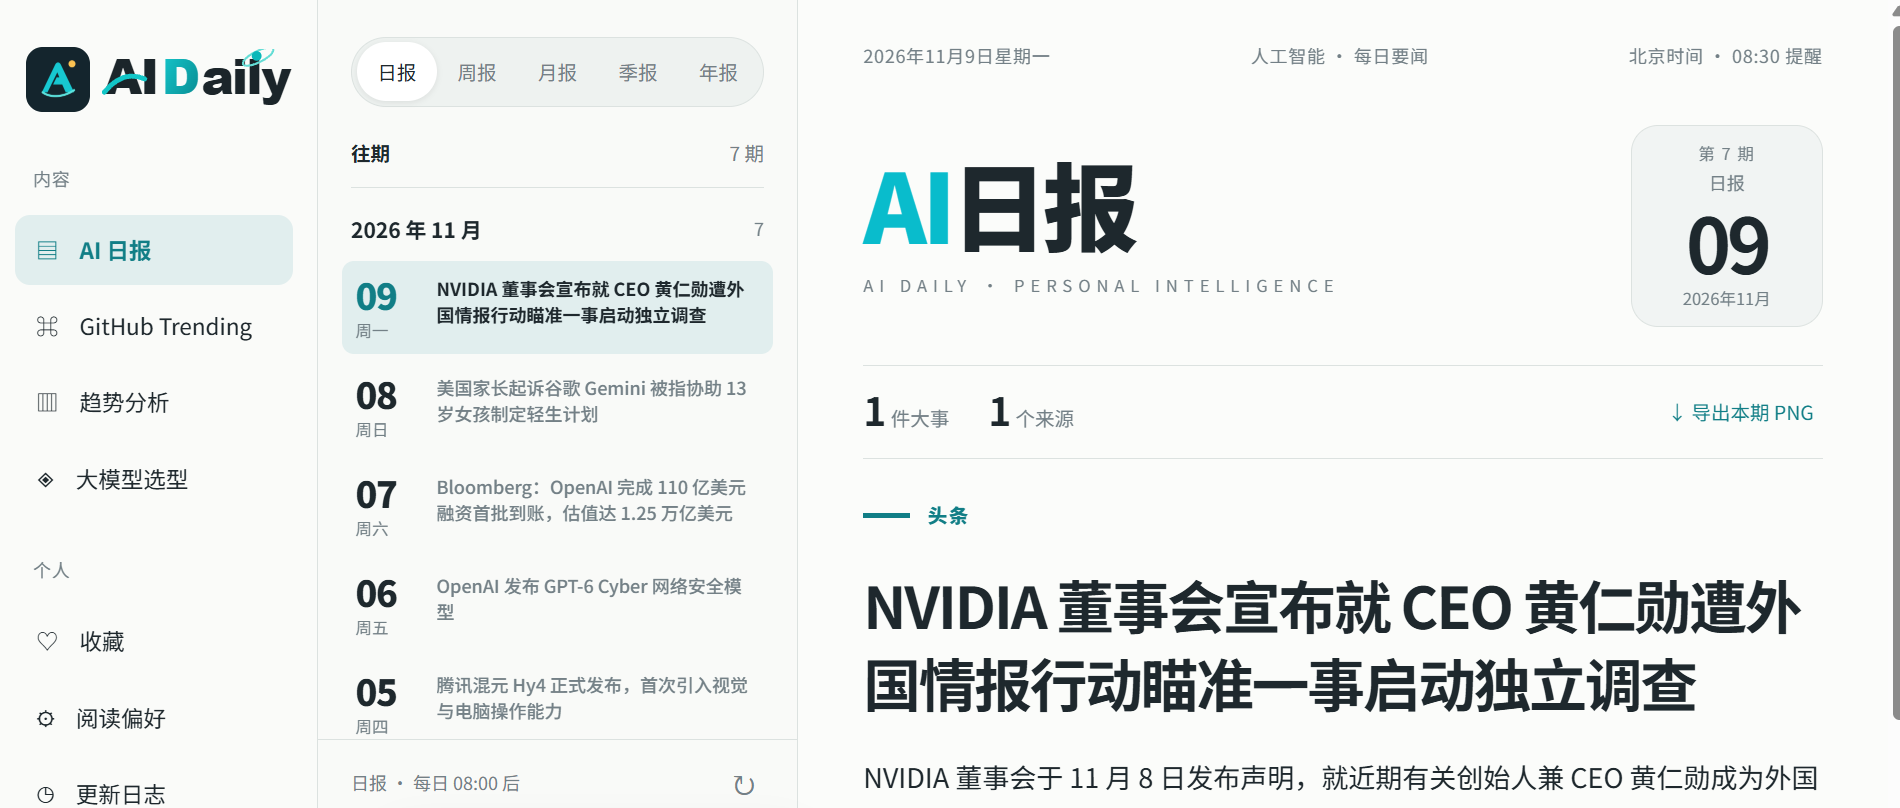
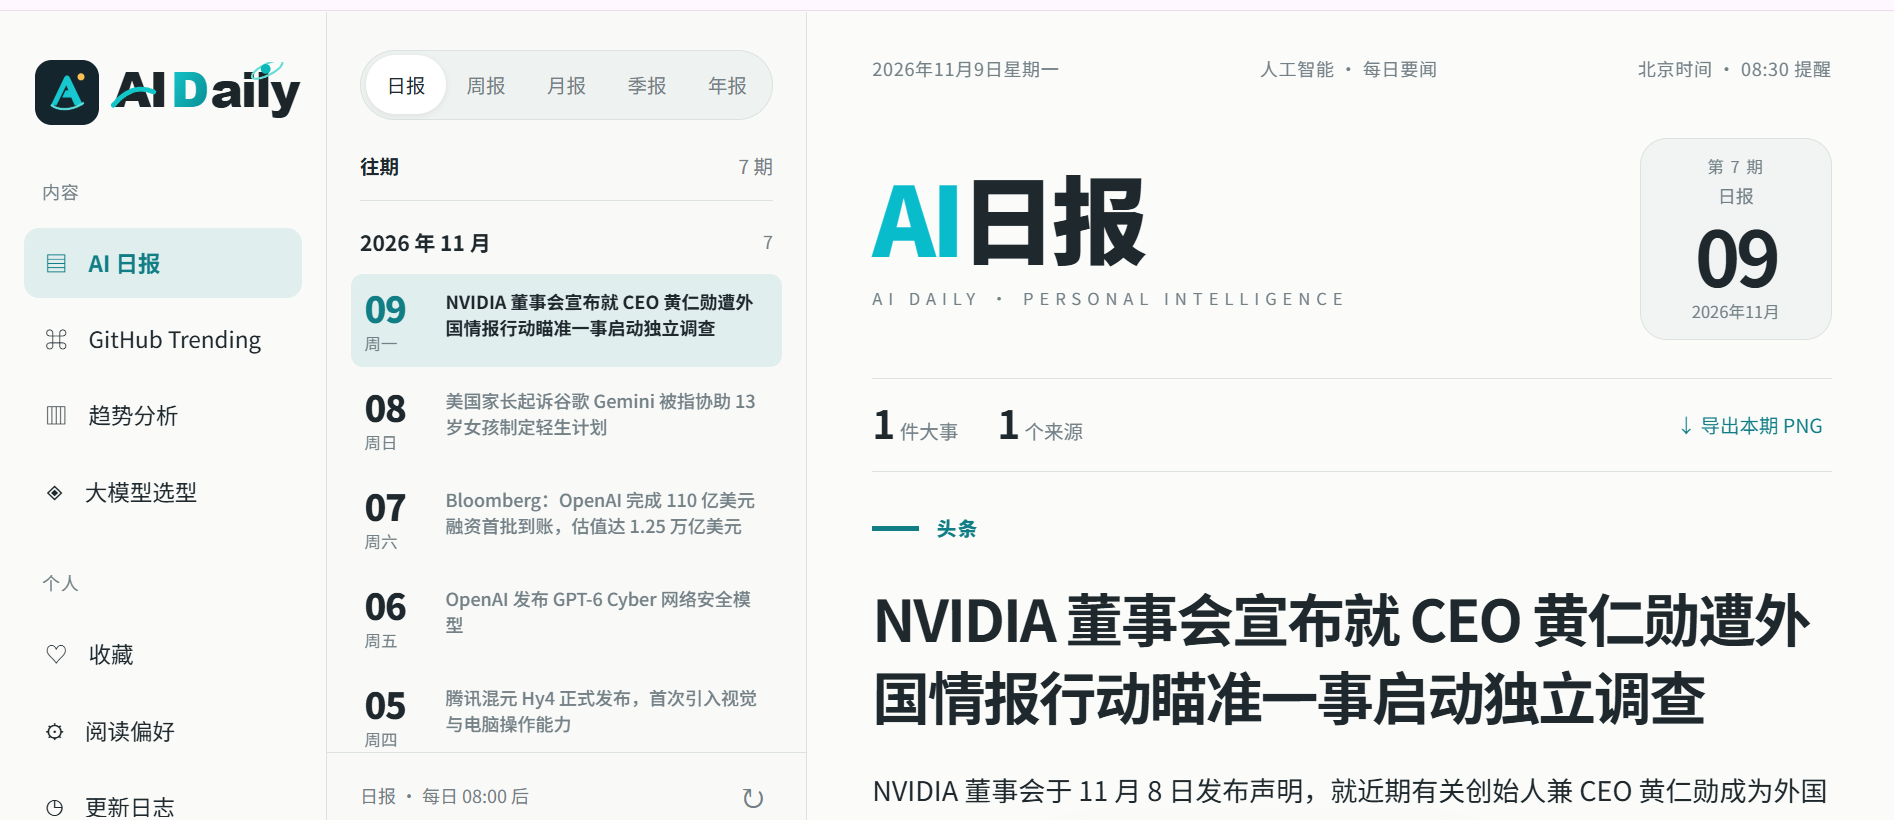
Add files via upload

diff --git a/aesthetic-v4.css b/aesthetic-v4.css
@@ -81,42 +81,53 @@ button:hover{transform:translateY(-1px)}
 }
 
 
-/* V4.1 · AI Daily introduction, scoped to avoid touching other pages. */
-.mw-daily-page{--d-teal:#07858c;--d-bright:#0ab5c0;--d-blue:#002fa7;--d-ink:var(--text);max-width:1400px;margin:auto}
-.mw-daily-eyebrow{display:flex;align-items:center;gap:10px;font-size:11px;font-weight:700;letter-spacing:.19em;color:var(--muted);margin-bottom:24px}
-.mw-live-dot{width:8px;height:8px;border-radius:50%;background:var(--d-bright);box-shadow:0 0 0 5px color-mix(in srgb,var(--d-bright) 12%,transparent)}
-.mw-daily-hero{display:grid;grid-template-columns:minmax(290px,.8fr) minmax(420px,1.2fr);gap:clamp(28px,4vw,70px);align-items:center;min-height:560px;padding:clamp(28px,3vw,50px);border:1px solid color-mix(in srgb,var(--d-teal) 16%,var(--line));border-radius:25px;background:radial-gradient(ellipse at 86% 10%,rgba(11,184,187,.09),transparent 45%),linear-gradient(125deg,var(--panel),color-mix(in srgb,var(--panel) 91%,#0fb4ad));overflow:hidden}
-.mw-daily-copy{min-width:0}
-.mw-daily-product{display:flex;align-items:center;gap:13px;font-size:23px;font-weight:800;letter-spacing:-.6px;color:var(--d-ink);margin-bottom:24px}
-.mw-daily-logo{display:grid;place-items:center;position:relative;width:49px;height:49px;flex-shrink:0;border-radius:15px;background:#14262b;color:#18bfc4;font-size:32px;font-weight:800;letter-spacing:-2px;line-height:1}
-.mw-daily-logo-dot{position:absolute;top:7px;right:8px;font-size:15px;color:#ffcf77}
-.mw-daily-copy h1{font-size:clamp(36px,3.4vw,60px);line-height:1.18;letter-spacing:-.055em;font-weight:800;color:var(--d-ink)}
-.mw-daily-period{color:var(--d-blue)}
-.mw-daily-lead{margin-top:20px;font-size:clamp(17px,1.4vw,22px);font-weight:700;line-height:1.5;color:var(--d-teal)}
-.mw-daily-summary{margin-top:15px;max-width:520px;font-size:15px;line-height:1.95;color:var(--muted)}
-.mw-daily-actions{display:flex;flex-wrap:wrap;align-items:center;gap:12px;margin-top:29px}
-.mw-daily-cta{display:inline-flex;align-items:center;justify-content:space-between;gap:36px;padding:13px 21px;border-radius:13px;background:linear-gradient(120deg,#11b8bc,#087d87);color:white!important;font-weight:750;box-shadow:0 11px 25px rgba(8,125,135,.15);transition:transform .23s ease,box-shadow .23s ease}
-.mw-daily-cta:hover{transform:translateY(-3px);box-shadow:0 17px 32px rgba(8,125,135,.24)}
-.mw-daily-cta span{font-size:19px;font-weight:500}
-.mw-daily-secondary{padding:11px 13px;color:var(--muted);font-size:14px;border-radius:10px;transition:background .2s ease,color .2s ease}
-.mw-daily-secondary:hover{color:var(--d-teal);background:var(--soft)}
-.mw-daily-linkhint{font-size:12px;margin-top:13px;color:var(--muted)}
-.mw-daily-showcase{min-width:0;border:1px solid color-mix(in srgb,var(--d-teal) 25%,var(--line));border-radius:18px;overflow:hidden;background:var(--panel);box-shadow:0 18px 48px rgba(9,87,88,.10);transform:perspective(1200px) rotateY(-2deg);transition:transform .35s cubic-bezier(.2,.8,.2,1),box-shadow .35s ease}
-.mw-daily-showcase:hover{transform:perspective(1200px) rotateY(0) translateY(-4px);box-shadow:0 24px 53px rgba(9,87,88,.17)}
-.mw-daily-image-header{height:41px;display:flex;align-items:center;justify-content:space-between;gap:12px;padding:0 16px;font-size:11px;color:var(--muted);background:color-mix(in srgb,var(--panel) 90%,var(--soft));border-bottom:1px solid var(--line)}
-.mw-daily-dots{display:flex;gap:6px}.mw-daily-dots i{width:8px;height:8px;border-radius:50%;background:#f3a49e}.mw-daily-dots i:nth-child(2){background:#e9c875}.mw-daily-dots i:nth-child(3){background:#85cbb6}
-.mw-daily-image{display:block;overflow:hidden;aspect-ratio:1900/808;background:#f8faf9}
-.mw-daily-image img{display:block;width:100%;height:100%;object-fit:contain;object-position:top left}
-.mw-daily-image-caption{padding:11px 15px;font-size:11px;color:var(--muted);background:var(--panel)}
-.mw-daily-features-title{display:flex;align-items:baseline;justify-content:space-between;gap:12px;margin:33px 0 17px}
-.mw-daily-features-title h2{font-size:21px;font-weight:730}.mw-daily-features-title span{font-size:10px;letter-spacing:.16em;color:var(--muted)}
-.mw-daily-features{display:grid;grid-template-columns:repeat(4,minmax(0,1fr));gap:12px}
-.mw-daily-features article{background:var(--panel);border:1px solid var(--line);border-radius:16px;padding:19px 18px;transition:transform .22s ease,border-color .22s ease,box-shadow .22s ease}
-.mw-daily-features article:hover{transform:translateY(-3px);border-color:color-mix(in srgb,var(--d-teal) 40%,var(--line));box-shadow:0 12px 30px rgba(9,87,88,.06)}
-.mw-daily-feature-index{font-size:12px;color:var(--d-teal);font-weight:700;letter-spacing:.1em}
-.mw-daily-features h3{font-size:16px;margin:10px 0 7px}
-.mw-daily-features p{font-size:13px;line-height:1.75}
-.mw-daily-footerline{margin-top:24px;padding-top:17px;border-top:1px solid var(--line);display:flex;justify-content:space-between;align-items:center;gap:15px;font-size:12px;color:var(--muted)}
-@media(max-width:1200px){.mw-daily-hero{grid-template-columns:1fr;min-height:0}.mw-daily-showcase{transform:none}.mw-daily-features{grid-template-columns:repeat(2,minmax(0,1fr))}}
-@media(max-width:650px){.mw-daily-eyebrow{margin-bottom:15px}.mw-daily-hero{padding:22px;border-radius:18px;gap:25px}.mw-daily-product{font-size:20px;margin-bottom:18px}.mw-daily-copy h1{font-size:36px}.mw-daily-summary{font-size:14px}.mw-daily-features-title{align-items:start;display:block}.mw-daily-features-title span{display:none}.mw-daily-features{grid-template-columns:1fr}.mw-daily-showcase{border-radius:13px}.mw-daily-image-header{height:35px}.mw-daily-cta{width:100%}.mw-daily-secondary{width:100%;text-align:center}}
-@media(prefers-reduced-motion:reduce){.mw-daily-cta,.mw-daily-showcase,.mw-daily-features article{transition:none!important;transform:none!important}}
+/* V4.2 · A one-screen, two-column hero for the AI Daily product only. */
+body.mw-explore-view .workspace{min-height:100dvh}
+body.mw-explore-view main{height:calc(100dvh - 30px);min-height:580px;max-width:none;display:flex;align-items:center;padding:18px clamp(24px,3vw,52px) 18px;overflow:hidden}
+body.mw-explore-view .workspace>footer{display:none}
+.mw-explore{--mwt:#07848a;--mwb:#002fa7;--mwd:#202c30;position:relative;width:100%;height:min(100%,810px);min-height:510px;display:grid;grid-template-columns:minmax(340px,.83fr) minmax(490px,1.17fr);align-items:center;gap:clamp(30px,4vw,84px);padding:clamp(30px,4.8vw,76px);overflow:hidden;border:1px solid rgba(7,132,138,.13);border-radius:30px;background:radial-gradient(circle at 85% 16%,rgba(10,188,194,.16),transparent 35%),radial-gradient(circle at 12% 94%,rgba(7,132,138,.07),transparent 32%),linear-gradient(135deg,#fcfefd,#f3faf9 62%,#e7f5f3);box-shadow:0 24px 60px rgba(10,110,111,.07)}
+.mw-explore:before{content:"";position:absolute;width:48%;aspect-ratio:1;border-radius:50%;right:-15%;top:-37%;border:1px solid rgba(15,157,165,.12);box-shadow:0 0 0 64px rgba(15,157,165,.025),0 0 0 130px rgba(15,157,165,.015);pointer-events:none}
+.mw-explore-copy,.mw-explore-visual{position:relative;z-index:1;min-width:0}
+.mw-explore-kicker{display:flex;align-items:center;gap:10px;margin-bottom:20px;color:#6f8491;font-size:11px;font-weight:750;letter-spacing:.17em}
+.mw-explore-kicker i{width:9px;height:9px;flex-shrink:0;border-radius:50%;background:#13bec2;box-shadow:0 0 0 6px rgba(19,190,194,.12)}
+.mw-explore-wordmark{display:flex;align-items:center;gap:13px;color:#1d2b30;font-size:clamp(26px,2.3vw,36px);font-weight:800;letter-spacing:-1.2px;line-height:1.1;margin-bottom:25px}
+.mw-explore-wordmark b{color:#08b4ba}
+.mw-explore-mark{height:46px;width:46px;border-radius:13px;display:grid;place-items:center;position:relative;background:#12282e;color:#17c7ca;font-size:32px;font-weight:800;line-height:1}
+.mw-explore-mark i{position:absolute;right:8px;top:7px;width:6px;height:6px;border-radius:50%;background:#f6bf5d}
+.mw-explore-copy h1{color:#1b292e;font-size:clamp(38px,3.65vw,62px);font-weight:830;letter-spacing:-.065em;line-height:1.16;margin:0}
+.mw-explore-copy h1 span{color:var(--mwb)}
+.mw-explore-lead{font-size:clamp(18px,1.6vw,24px);font-weight:740;margin-top:20px;color:var(--mwt)}
+.mw-explore-description{font-size:clamp(13px,1vw,15px);line-height:1.85;margin-top:15px;max-width:480px;color:#627d84}
+.mw-explore-tags{display:flex;flex-wrap:wrap;gap:8px;margin-top:22px}
+.mw-explore-tags span{padding:6px 11px;border:1px solid #d4e7e4;border-radius:999px;background:rgba(255,255,255,.70);color:#57777e;font-size:12px;white-space:nowrap}
+.mw-explore-actions{display:flex;align-items:center;flex-wrap:wrap;gap:14px;margin-top:26px}
+.mw-explore-primary{display:inline-flex;align-items:center;justify-content:space-between;gap:35px;padding:15px 19px 15px 22px;min-width:205px;border-radius:13px;border:1px solid rgba(7,132,138,.3);background:linear-gradient(125deg,#14bdc1,#087d85);color:#fff!important;font-weight:750;font-size:16px;box-shadow:0 12px 26px rgba(7,132,138,.18);transition:transform .24s ease,box-shadow .24s ease,filter .24s ease}
+.mw-explore-primary:hover{transform:translateY(-3px);box-shadow:0 17px 35px rgba(7,132,138,.24);filter:brightness(1.04)}
+.mw-explore-primary span{font-size:23px;font-weight:400;line-height:1}
+.mw-explore-back{font-size:13px;color:#637d84;padding:10px;border-radius:9px}
+.mw-explore-back:hover{background:rgba(7,132,138,.06);color:var(--mwt)}
+.mw-explore-note{margin-top:13px;font-size:12px;color:#82969c}
+.mw-explore-visual{width:100%;padding-bottom:20px}
+.mw-explore-browser{display:block;overflow:hidden;border:1px solid #b8dad8;border-radius:23px;background:#fff;box-shadow:0 28px 64px rgba(7,103,109,.13),0 0 0 7px rgba(255,255,255,.45);transform:perspective(1400px) rotateY(-2deg);transform-origin:center left;transition:transform .35s cubic-bezier(.18,.75,.24,1),box-shadow .35s ease}
+.mw-explore-browser:hover{transform:perspective(1400px) rotateY(0) translateY(-5px);box-shadow:0 35px 72px rgba(7,103,109,.20),0 0 0 7px rgba(255,255,255,.6)}
+.mw-explore-browserbar{height:43px;display:flex;align-items:center;justify-content:space-between;gap:10px;padding:0 15px;border-bottom:1px solid #e8eef0;background:#f9fbfd;color:#8297a3;font-size:11px}
+.mw-explore-dots{display:flex;gap:5px}
+.mw-explore-dots i{width:8px;height:8px;border-radius:50%;background:#f09c9a}
+.mw-explore-dots i:nth-child(2){background:#eac779}.mw-explore-dots i:nth-child(3){background:#7bc7b6}
+.mw-explore-arrow{font-size:20px;color:var(--mwt)}
+.mw-explore-screen{height:clamp(295px,44vh,495px);overflow:hidden;background:#fff}
+.mw-explore-screen img{display:block;width:100%;height:100%;object-fit:cover;object-position:0% 0%}
+.mw-explore-float{position:absolute;left:-19px;bottom:-4px;display:flex;flex-direction:column;gap:2px;padding:13px 17px;min-width:205px;background:rgba(255,255,255,.95);border:1px solid #d5ebe8;border-radius:15px;box-shadow:0 14px 34px rgba(7,103,109,.12);backdrop-filter:blur(10px)}
+.mw-explore-float strong{font-size:14px;color:var(--mwt)}
+.mw-explore-float span{font-size:11px;color:#8599a2}
+body.dark .mw-explore{background:radial-gradient(circle at 83% 13%,rgba(18,183,190,.18),transparent 38%),linear-gradient(135deg,#13272b,#173538 62%,#103033);border-color:#31595c}
+body.dark .mw-explore-wordmark,body.dark .mw-explore-copy h1{color:#f0f7f6}
+body.dark .mw-explore-description{color:#b4cacb}
+body.dark .mw-explore-kicker,body.dark .mw-explore-note{color:#9bb7b8}
+body.dark .mw-explore-tags span{color:#c3d8d7;background:#254246;border-color:#36565a}
+body.dark .mw-explore-lead{color:#5dd5d4}
+body.dark .mw-explore-back{color:#bbcecd}
+@media(max-width:1250px){.mw-explore{gap:28px;padding:35px;grid-template-columns:minmax(310px,.95fr) minmax(380px,1.05fr)}.mw-explore-copy h1{font-size:clamp(36px,3vw,48px)}.mw-explore-screen{height:345px}}
+@media(max-width:1040px){body.mw-explore-view main{height:auto;min-height:0;overflow:visible;padding:20px 24px 45px}.mw-explore{height:auto;min-height:0;grid-template-columns:1fr;padding:36px;gap:30px}.mw-explore-visual{max-width:800px;margin:auto}.mw-explore-screen{height:340px}.mw-explore-copy h1{font-size:clamp(38px,5vw,56px)}}
+@media(max-width:650px){body.mw-explore-view main{padding:16px 14px 36px}.mw-explore{padding:24px 20px;border-radius:19px;gap:26px}.mw-explore-wordmark{margin-bottom:22px;font-size:28px}.mw-explore-copy h1{font-size:39px}.mw-explore-description{font-size:14px}.mw-explore-actions{align-items:stretch}.mw-explore-primary{width:100%}.mw-explore-back{width:100%;text-align:center}.mw-explore-screen{height:250px}.mw-explore-browser{border-radius:16px;transform:none}.mw-explore-browserbar{height:35px}.mw-explore-float{left:8px;bottom:0}}
+@media(prefers-reduced-motion:reduce){.mw-explore-primary,.mw-explore-browser{transition:none!important;transform:none!important}}

diff --git a/aesthetic-v4.js b/aesthetic-v4.js
@@ -86,48 +86,45 @@ mwV4SyncChrome();
 window.addEventListener('hashchange',mwV4SyncChrome);
 
 
-// V4.1 · AI Daily is a peer product: discover it before visiting its homepage.
+// V4.2 · One-screen AI Daily product introduction. No extra content below the hero.
 function mwRenderAIDailyOverview(){
   if(location.hash!=='#aidaily')return;
+  document.body.classList.add('mw-explore-view');
   document.querySelectorAll('[data-nav]').forEach(a=>a.classList.toggle('active',a.dataset.nav==='aidaily'));
   const dock=document.getElementById('compare-dock');
   if(dock)dock.classList.add('hidden');
   const app=document.getElementById('app');
   if(!app)return;
-  app.innerHTML=`<div class="mw-daily-page">
-    <div class="mw-daily-eyebrow"><span class="mw-live-dot"></span> LEXIE · PRODUCT ECOSYSTEM</div>
-    <div class="mw-daily-hero">
-      <div class="mw-daily-copy">
-        <div class="mw-daily-product"><span class="mw-daily-logo">A<span class="mw-daily-logo-dot">.</span></span><span>AI Daily</span></div>
-        <h1>每天一点，<br>读懂 AI 世界<span class="mw-daily-period">.</span></h1>
-        <p class="mw-daily-lead">让 AI 信息，成为可以积累的知识。</p>
-        <p class="mw-daily-summary">AI Daily 是一个独立的 AI 情报阅读器，集中呈现 AI 日报、GitHub Trending 和长期趋势分析。用更清晰的归档与阅读体验，持续跟踪值得关注的技术和产品变化。</p>
-        <div class="mw-daily-actions">
-          <a class="mw-daily-cta" href="${MODELWISE_AIDAILY_URL}" target="_blank" rel="noopener noreferrer">进入 AI 日报 <span aria-hidden="true">↗</span></a>
-          <a class="mw-daily-secondary" href="#library">返回 Modelwise</a>
-        </div>
-        <p class="mw-daily-linkhint">独立网站 · 进入后默认打开「AI 日报」</p>
+  app.innerHTML=`<section class="mw-explore" aria-label="探索 AI Daily 作品概览">
+    <div class="mw-explore-copy">
+      <div class="mw-explore-kicker"><i aria-hidden="true"></i> LEXIE / AI INTELLIGENCE</div>
+      <div class="mw-explore-wordmark"><span class="mw-explore-mark">A<i></i></span><span><b>AI</b> Daily</span></div>
+      <h1>让 AI 信息<br>成为你的<span>长期积累。</span></h1>
+      <p class="mw-explore-lead">每天读懂 AI，持续看见趋势。</p>
+      <p class="mw-explore-description">AI Daily 是一款独立的 AI 情报阅读器。将每日 AI 动态、开源趋势与长期观察整理成清晰、可回顾的个人信息档案。</p>
+      <div class="mw-explore-tags" aria-label="AI Daily 主要功能">
+        <span>AI 日报 · 周报</span><span>GitHub Trending</span><span>趋势分析</span><span>收藏与归档</span>
       </div>
-      <div class="mw-daily-showcase">
-        <div class="mw-daily-image-header"><span class="mw-daily-dots"><i></i><i></i><i></i></span><span>AI Daily / AI 日报</span><span>↗</span></div>
-        <a class="mw-daily-image" href="${MODELWISE_AIDAILY_URL}" target="_blank" rel="noopener noreferrer" aria-label="查看真实的 AI Daily 网站">
-          <img src="assets/ai-daily-real-preview.png" alt="AI Daily 真实网站截图：左侧内容导航、往期日报、AI 日报正文阅读区" loading="eager" decoding="async">
-        </a>
-        <div class="mw-daily-image-caption">真实产品界面 · AI Daily 日报阅读页</div>
+      <div class="mw-explore-actions">
+        <a class="mw-explore-primary" href="${MODELWISE_AIDAILY_URL}" target="_blank" rel="noopener noreferrer">进入 AI Daily <span aria-hidden="true">↗</span></a>
+        <a class="mw-explore-back" href="#library">返回模型资料库</a>
       </div>
+      <p class="mw-explore-note">独立网站 · 点击进入 AI 日报首页</p>
     </div>
-    <div class="mw-daily-features-title"><h2>一个入口，持续了解 AI</h2><span>EXPLORE THE FEATURES</span></div>
-    <div class="mw-daily-features">
-      <article><span class="mw-daily-feature-index">01</span><h3>AI 日报与往期</h3><p>阅读每日重要动态，并按日期查阅过往内容。</p></article>
-      <article><span class="mw-daily-feature-index">02</span><h3>GitHub Trending</h3><p>观察热门开源项目与不同周期的技术趋势。</p></article>
-      <article><span class="mw-daily-feature-index">03</span><h3>趋势分析</h3><p>从已归档的信息中寻找更长期的变化方向。</p></article>
-      <article><span class="mw-daily-feature-index">04</span><h3>收藏与阅读偏好</h3><p>保存关心的内容，建立自己的 AI 信息阅读习惯。</p></article>
+    <div class="mw-explore-visual">
+      <a class="mw-explore-browser" href="${MODELWISE_AIDAILY_URL}" target="_blank" rel="noopener noreferrer" aria-label="打开 AI Daily 日报首页">
+        <div class="mw-explore-browserbar"><span class="mw-explore-dots"><i></i><i></i><i></i></span><span>AI Daily / AI 日报</span><span class="mw-explore-arrow">↗</span></div>
+        <div class="mw-explore-screen"><img src="assets/ai-daily-real-preview.png" alt="真实 AI Daily 产品首页截图：AI 日报、往期刊物和阅读界面" loading="eager" decoding="async"></div>
+      </a>
+      <div class="mw-explore-float"><strong>AI Daily</strong><span>日报 · 开源 · 趋势 · 归档</span></div>
     </div>
-    <div class="mw-daily-footerline"><span>AI Daily × Modelwise</span><a href="${MODELWISE_AIDAILY_URL}" target="_blank" rel="noopener noreferrer">打开 AI Daily ↗</a></div>
-  </div>`;
-  window.scrollTo({top:0,behavior:'instant'});
+  </section>`;
+  window.scrollTo(0,0);
 }
-// Registered last so the original router still handles all existing Modelwise pages.
-window.addEventListener('hashchange',mwRenderAIDailyOverview);
-if(document.readyState==='loading')document.addEventListener('DOMContentLoaded',mwRenderAIDailyOverview);
-else mwRenderAIDailyOverview();
+function mwExploreSync(){
+  document.body.classList.toggle('mw-explore-view',location.hash==='#aidaily');
+  if(location.hash==='#aidaily')mwRenderAIDailyOverview();
+}
+window.addEventListener('hashchange',mwExploreSync);
+if(document.readyState==='loading')document.addEventListener('DOMContentLoaded',mwExploreSync);
+else mwExploreSync();
